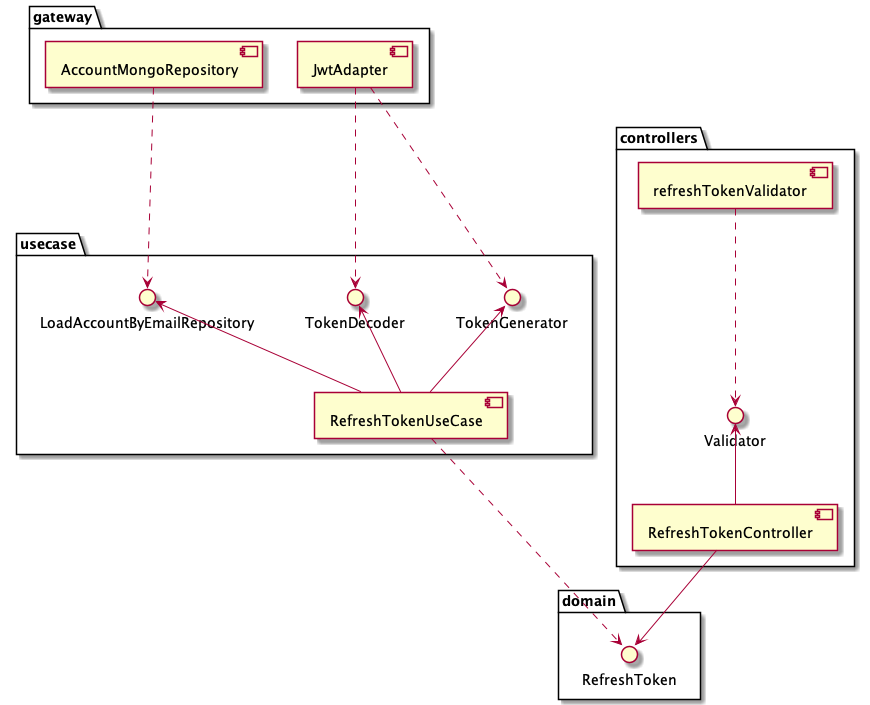
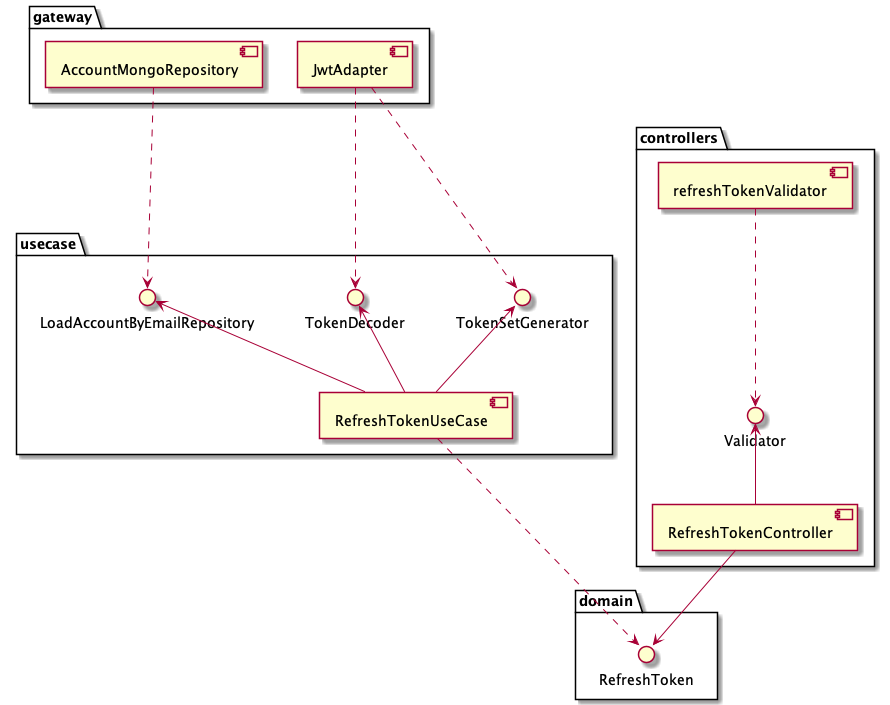
refactor: rename tokenGenerator to tokenSetGenerator

diff --git a/src/usecases/usecases/refresh-token/refresh-token-usecase.unit.test.ts b/src/usecases/usecases/refresh-token/refresh-token-usecase.unit.test.ts
@@ -1,5 +1,5 @@
 import { TokenDecoder } from '@usecases/protocols/cryptography/token-decoder'
-import { TokenGenerator } from '@usecases/protocols/cryptography/token-generator'
+import { TokenSetGenerator } from '@usecases/protocols/cryptography/token-set-generator'
 import { LoadAccountByEmailRepository } from '@usecases/protocols/account/load-account-by-email-repository'
 import { AccountModel, TokenSet } from '@domain/models'
 import { RefreshTokenUseCase } from './refresh-token-usecase'
@@ -8,7 +8,7 @@ interface SutTypes {
   sut: RefreshTokenUseCase
   tokenDecoderStub: TokenDecoder
   loadAccountByEmailRepositoryStub: LoadAccountByEmailRepository
-  tokenGeneratorStub: TokenGenerator
+  tokenSetGeneratorStub: TokenSetGenerator
 }
 
 const givenRefreshToken = 'refresh_token'
@@ -58,21 +58,21 @@ const makeLoadAccountByEmailRepositoryStub = (): LoadAccountByEmailRepository =>
   return new LoadAccountByEmailRepositoryStub()
 }
 
-const makeTokenGeneratorStub = (): TokenGenerator => {
-  class TokenGeneratorStub implements TokenGenerator {
-    generate(): TokenSet {
+const makeTokenSetGeneratorStub = (): TokenSetGenerator => {
+  class TokenSetGeneratorStub implements TokenSetGenerator {
+    generateSet(): TokenSet {
       return makeTokenSet()
     }
   }
-  return new TokenGeneratorStub()
+  return new TokenSetGeneratorStub()
 }
 
 const makeSut = (): SutTypes => {
   const tokenDecoderStub = makeTokenDecoderStub()
   const loadAccountByEmailRepositoryStub = makeLoadAccountByEmailRepositoryStub()
-  const tokenGeneratorStub = makeTokenGeneratorStub()
-  const sut = new RefreshTokenUseCase(tokenDecoderStub, loadAccountByEmailRepositoryStub, tokenGeneratorStub)
-  return { sut, tokenDecoderStub, loadAccountByEmailRepositoryStub, tokenGeneratorStub }
+  const tokenSetGeneratorStub = makeTokenSetGeneratorStub()
+  const sut = new RefreshTokenUseCase(tokenDecoderStub, loadAccountByEmailRepositoryStub, tokenSetGeneratorStub)
+  return { sut, tokenDecoderStub, loadAccountByEmailRepositoryStub, tokenSetGeneratorStub }
 }
 
 describe('RefreshTokenUseCase', () => {
@@ -137,10 +137,10 @@ describe('RefreshTokenUseCase', () => {
   it.each([
     [true],
     [false],
-  ])('should call TokenGenerator with correct values, including remember option %s', async (remember) => {
-    const { sut, tokenDecoderStub, tokenGeneratorStub } = makeSut()
+  ])('should call TokenSetGenerator with correct values, including remember option %s', async (remember) => {
+    const { sut, tokenDecoderStub, tokenSetGeneratorStub } = makeSut()
 
-    const generateSpy = jest.spyOn(tokenGeneratorStub, 'generate')
+    const generateSetSpy = jest.spyOn(tokenSetGeneratorStub, 'generateSet')
     jest.spyOn(tokenDecoderStub, 'decode').mockReturnValueOnce({
       id: 'any_id',
       email: givenEmail,
@@ -150,17 +150,17 @@ describe('RefreshTokenUseCase', () => {
 
     await sut.refresh(givenTokenAccount, givenRefreshToken)
 
-    expect(generateSpy).toBeCalledWith({
+    expect(generateSetSpy).toBeCalledWith({
       id: givenId,
       name: givenName,
       email: givenEmail,
     }, remember)
   })
 
-  it('should not handle TokenGenerator internal errors', async () => {
-    const { sut, tokenGeneratorStub } = makeSut()
+  it('should not handle TokenSetGenerator internal errors', async () => {
+    const { sut, tokenSetGeneratorStub } = makeSut()
     const givenError = new Error('any error')
-    jest.spyOn(tokenGeneratorStub, 'generate').mockImplementationOnce(() => { throw givenError })
+    jest.spyOn(tokenSetGeneratorStub, 'generateSet').mockImplementationOnce(() => { throw givenError })
     await expect(() => sut.refresh(givenTokenAccount, givenRefreshToken)).rejects.toThrow(givenError)
   })
 

diff --git a/src/usecases/usecases/authentication/autentication-usecase.unit.test.ts b/src/usecases/usecases/authentication/autentication-usecase.unit.test.ts
@@ -1,5 +1,5 @@
 import { HashComparer } from '@usecases/protocols/cryptography/hash-comparer'
-import { TokenGenerator } from '@usecases/protocols/cryptography/token-generator'
+import { TokenSetGenerator } from '@usecases/protocols/cryptography/token-set-generator'
 import { LoadAccountByEmailRepository } from '@usecases/protocols/account/load-account-by-email-repository'
 import { AccountModel, TokenSet } from '@domain/models'
 import { AuthenticationModel } from '@domain/usecases'
@@ -9,7 +9,7 @@ interface SutTypes {
   sut: AuthenticationUseCase
   loadAccountByEmailRepositoryStub: LoadAccountByEmailRepository
   hashComparerStub: HashComparer
-  tokenGeneratorStub: TokenGenerator
+  tokenSetGeneratorStub: TokenSetGenerator
 }
 
 const givenId = 'any_id'
@@ -50,21 +50,21 @@ const makeHashComparatorStub = (): HashComparer => {
   return new HashComparerStub()
 }
 
-const makeTokenGeneratorStub = (): TokenGenerator => {
-  class TokenGeneratorStub implements TokenGenerator {
-    generate(): TokenSet {
+const makeTokenSetGeneratorStub = (): TokenSetGenerator => {
+  class TokenSetGeneratorStub implements TokenSetGenerator {
+    generateSet(): TokenSet {
       return givenToken
     }
   }
-  return new TokenGeneratorStub()
+  return new TokenSetGeneratorStub()
 }
 
 const makeSut = (): SutTypes => {
   const loadAccountByEmailRepositoryStub = makeLoadAccountByEmailRepositoryStub()
   const hashComparerStub = makeHashComparatorStub()
-  const tokenGeneratorStub = makeTokenGeneratorStub()
-  const sut = new AuthenticationUseCase(loadAccountByEmailRepositoryStub, hashComparerStub, tokenGeneratorStub)
-  return { sut, loadAccountByEmailRepositoryStub, hashComparerStub, tokenGeneratorStub }
+  const tokenSetGeneratorStub = makeTokenSetGeneratorStub()
+  const sut = new AuthenticationUseCase(loadAccountByEmailRepositoryStub, hashComparerStub, tokenSetGeneratorStub)
+  return { sut, loadAccountByEmailRepositoryStub, hashComparerStub, tokenSetGeneratorStub: tokenSetGeneratorStub }
 }
 
 describe('AuthenticationUseCase', () => {
@@ -111,21 +111,21 @@ describe('AuthenticationUseCase', () => {
     expect(response).toBeNull()
   })
 
-  it('should call TokenGenerator with correct values', async () => {
-    const { sut, tokenGeneratorStub } = makeSut()
-    const generateSpy = jest.spyOn(tokenGeneratorStub, 'generate')
+  it('should call TokenSetGenerator with correct values', async () => {
+    const { sut, tokenSetGeneratorStub: tokenSetGeneratorStub } = makeSut()
+    const generateSetSpy = jest.spyOn(tokenSetGeneratorStub, 'generateSet')
     await sut.auth(makeCredentials())
-    expect(generateSpy).toBeCalledWith({
+    expect(generateSetSpy).toBeCalledWith({
       id: givenId,
       name: givenName,
       email: givenEmail,
     }, true)
   })
 
-  it('should not handle TokenGenerator errors', async () => {
-    const { sut, tokenGeneratorStub } = makeSut()
+  it('should not handle TokenSetGenerator errors', async () => {
+    const { sut, tokenSetGeneratorStub: tokenSetGeneratorStub } = makeSut()
     const givenError = new Error('any error')
-    jest.spyOn(tokenGeneratorStub, 'generate').mockImplementationOnce(() => { throw givenError })
+    jest.spyOn(tokenSetGeneratorStub, 'generateSet').mockImplementationOnce(() => { throw givenError })
     await expect(() => sut.auth(makeCredentials())).rejects.toThrow(givenError)
   })
 

diff --git a/src/gateways/adapters/jwt-adapter/jwt-adapter.unit.test.ts b/src/gateways/adapters/jwt-adapter/jwt-adapter.unit.test.ts
@@ -19,12 +19,12 @@ const makeSut = (): JwtAdapter => new JwtAdapter(givenSecretPhrase)
 
 describe('JwtAdapter', () => {
 
-  describe('generate method', () => {
+  describe('generateSet method', () => {
 
     it('should call sign to access token with correct values', () => {
       const sut = makeSut()
       const signSpy = jest.spyOn(jwt, 'sign')
-      sut.generate(givenPayload, false)
+      sut.generateSet(givenPayload, false)
       expect(signSpy).toHaveBeenNthCalledWith(1, { ...givenPayload, tokenType: 'access', remember: false }, givenSecretPhrase, { expiresIn: '10 minutes' })
     })
 
@@ -34,7 +34,7 @@ describe('JwtAdapter', () => {
     ])('should call sign to refresh token with correct values, and when remember is %s, set expiration to %s', (remember, refreshTokenExpiration) => {
       const sut = makeSut()
       const signSpy = jest.spyOn(jwt, 'sign')
-      sut.generate(givenPayload, remember)
+      sut.generateSet(givenPayload, remember)
       expect(signSpy).toHaveBeenNthCalledWith(2, { ...givenPayload, tokenType: 'refresh', remember }, givenSecretPhrase, { expiresIn: refreshTokenExpiration })
     })
 
@@ -46,7 +46,7 @@ describe('JwtAdapter', () => {
         .mockImplementationOnce(() => generatedAccessToken)
         .mockImplementationOnce(() => generatedRefreshToken)
 
-      const token = sut.generate(givenPayload, true)
+      const token = sut.generateSet(givenPayload, true)
 
       expect(token).toEqual({
         accessToken: generatedAccessToken,
@@ -58,7 +58,7 @@ describe('JwtAdapter', () => {
       const sut = makeSut()
       const givenError = new Error('any_error')
       jest.spyOn(jwt, 'sign').mockImplementationOnce(() => { throw givenError })
-      expect(() => sut.generate(givenPayload, true)).toThrow(givenError)
+      expect(() => sut.generateSet(givenPayload, true)).toThrow(givenError)
     })
   })
 

diff --git a/src/usecases/usecases/refresh-token/refresh-token-usecase.ts b/src/usecases/usecases/refresh-token/refresh-token-usecase.ts
@@ -1,5 +1,5 @@
 import { TokenDecoder } from '@usecases/protocols/cryptography/token-decoder'
-import { TokenGenerator } from '@usecases/protocols/cryptography/token-generator'
+import { TokenSetGenerator } from '@usecases/protocols/cryptography/token-set-generator'
 import { LoadAccountByEmailRepository } from '@usecases/protocols/account/load-account-by-email-repository'
 import { AccountPublicModel, TokenSet } from '@domain/models'
 import { RefreshToken } from '@domain/usecases'
@@ -9,7 +9,7 @@ export class RefreshTokenUseCase implements RefreshToken {
   constructor(
     private tokenDecoder: TokenDecoder,
     private loadAccountByEmailRepository: LoadAccountByEmailRepository,
-    private tokenGenerator: TokenGenerator,
+    private tokenSetGenerator: TokenSetGenerator,
   ) { }
 
   async refresh(account: AccountPublicModel, refreshToken: string): Promise<TokenSet | null> {
@@ -25,7 +25,7 @@ export class RefreshTokenUseCase implements RefreshToken {
     if (!loadedAccount) return null
 
     const { password, ...accountWithoutPaassword } = loadedAccount
-    const tokenSet = this.tokenGenerator.generate(accountWithoutPaassword, remember)
+    const tokenSet = this.tokenSetGenerator.generateSet(accountWithoutPaassword, remember)
 
     return tokenSet
   }

diff --git a/src/usecases/usecases/authentication/authentication-usecase.ts b/src/usecases/usecases/authentication/authentication-usecase.ts
@@ -1,5 +1,5 @@
 import { HashComparer } from '@usecases/protocols/cryptography/hash-comparer'
-import { TokenGenerator } from '@usecases/protocols/cryptography/token-generator'
+import { TokenSetGenerator } from '@usecases/protocols/cryptography/token-set-generator'
 import { LoadAccountByEmailRepository } from '@usecases/protocols/account/load-account-by-email-repository'
 import { TokenSet } from '@domain/models'
 import { Authentication, AuthenticationModel } from '@domain/usecases'
@@ -9,7 +9,7 @@ export class AuthenticationUseCase implements Authentication {
   constructor(
     private loadAccountByEmailRepository: LoadAccountByEmailRepository,
     private hashComparer: HashComparer,
-    private tokenGenerator: TokenGenerator,
+    private tokenSetGenerator: TokenSetGenerator,
   ) { }
 
   async auth(credentials: AuthenticationModel): Promise<TokenSet | null> {
@@ -22,7 +22,7 @@ export class AuthenticationUseCase implements Authentication {
       return null
 
     const { password, ...accountWithoutPassword } = account
-    const token = this.tokenGenerator.generate(accountWithoutPassword, credentials.remember)
+    const token = this.tokenSetGenerator.generateSet(accountWithoutPassword, credentials.remember)
     return token
   }
 

diff --git a/src/gateways/adapters/jwt-adapter/jwt-adapter.ts b/src/gateways/adapters/jwt-adapter/jwt-adapter.ts
@@ -1,5 +1,5 @@
 import jwt from 'jsonwebtoken'
-import { TokenGenerator } from '@usecases/protocols/cryptography/token-generator'
+import { TokenSetGenerator } from '@usecases/protocols/cryptography/token-set-generator'
 import { TokenSet } from '@domain/models'
 import { TokenDecoder } from '@usecases/protocols/cryptography/token-decoder'
 import config from '@utils/config'
@@ -10,7 +10,7 @@ interface Expiration {
   longRefreshToken: string
 }
 
-export class JwtAdapter implements TokenGenerator, TokenDecoder {
+export class JwtAdapter implements TokenSetGenerator, TokenDecoder {
 
   private expiration: Expiration
 
@@ -20,7 +20,7 @@ export class JwtAdapter implements TokenGenerator, TokenDecoder {
     this.expiration = config.app.jwt.expiration
   }
 
-  generate(data: any, remember: boolean): TokenSet {
+  generateSet(data: any, remember: boolean): TokenSet {
     const refreshTokenExpiration = remember ? this.expiration.longRefreshToken : this.expiration.shortRefreshToken
     const accessToken = jwt.sign({ ...data, tokenType: 'access', remember }, this.secretPhrase, { expiresIn: '10 minutes' })
     const refreshToken = jwt.sign({ ...data, tokenType: 'refresh', remember }, this.secretPhrase, { expiresIn: refreshTokenExpiration })

diff --git a/src/main/factories/refresh-token.ts b/src/main/factories/refresh-token.ts
@@ -11,8 +11,8 @@ import { RefreshTokenController } from '@controllers/controllers/refresh/refresh
 export const makeRefreshTokenController = (): AuthenticatedController => {
   const loadByEmailRepository = new AccountMongoRepository()
   const jwtSecretPhrase = config.app.jwt.secret
-  const tokenGeneratorAndDecoder = new JwtAdapter(jwtSecretPhrase)
-  const refreshToken = new RefreshTokenUseCase(tokenGeneratorAndDecoder, loadByEmailRepository, tokenGeneratorAndDecoder)
+  const tokenSetGeneratorAndDecoder = new JwtAdapter(jwtSecretPhrase)
+  const refreshToken = new RefreshTokenUseCase(tokenSetGeneratorAndDecoder, loadByEmailRepository, tokenSetGeneratorAndDecoder)
   const validator = refreshTokenValidator()
   const refreshTokenController = new RefreshTokenController(validator, refreshToken)
   const consoleLoggerAdapter = new ConsoleLoggerAdapter()

diff --git a/src/main/factories/login.ts b/src/main/factories/login.ts
@@ -14,8 +14,8 @@ export const makeLoginController = (): Controller => {
   const loadByEmailRepository = new AccountMongoRepository()
   const hashComparer = new BCryptAdapter()
   const jwtSecretPhrase = config.app.jwt.secret
-  const tokenGenerator = new JwtAdapter(jwtSecretPhrase)
-  const authentication = new AuthenticationUseCase(loadByEmailRepository, hashComparer, tokenGenerator)
+  const tokenSetGenerator = new JwtAdapter(jwtSecretPhrase)
+  const authentication = new AuthenticationUseCase(loadByEmailRepository, hashComparer, tokenSetGenerator)
   const emailValidator = new EmailValidatorAdapter()
   const validator = loginValidator(emailValidator)
   const loginController = new LoginController(authentication, validator)

diff --git a/src/usecases/protocols/cryptography/token-set-generator.ts b/src/usecases/protocols/cryptography/token-set-generator.ts
@@ -1,0 +1,7 @@
+import { TokenSet } from '@domain/models'
+
+export interface TokenSetGenerator {
+
+  generateSet(data: any, remember: boolean): TokenSet
+
+}
